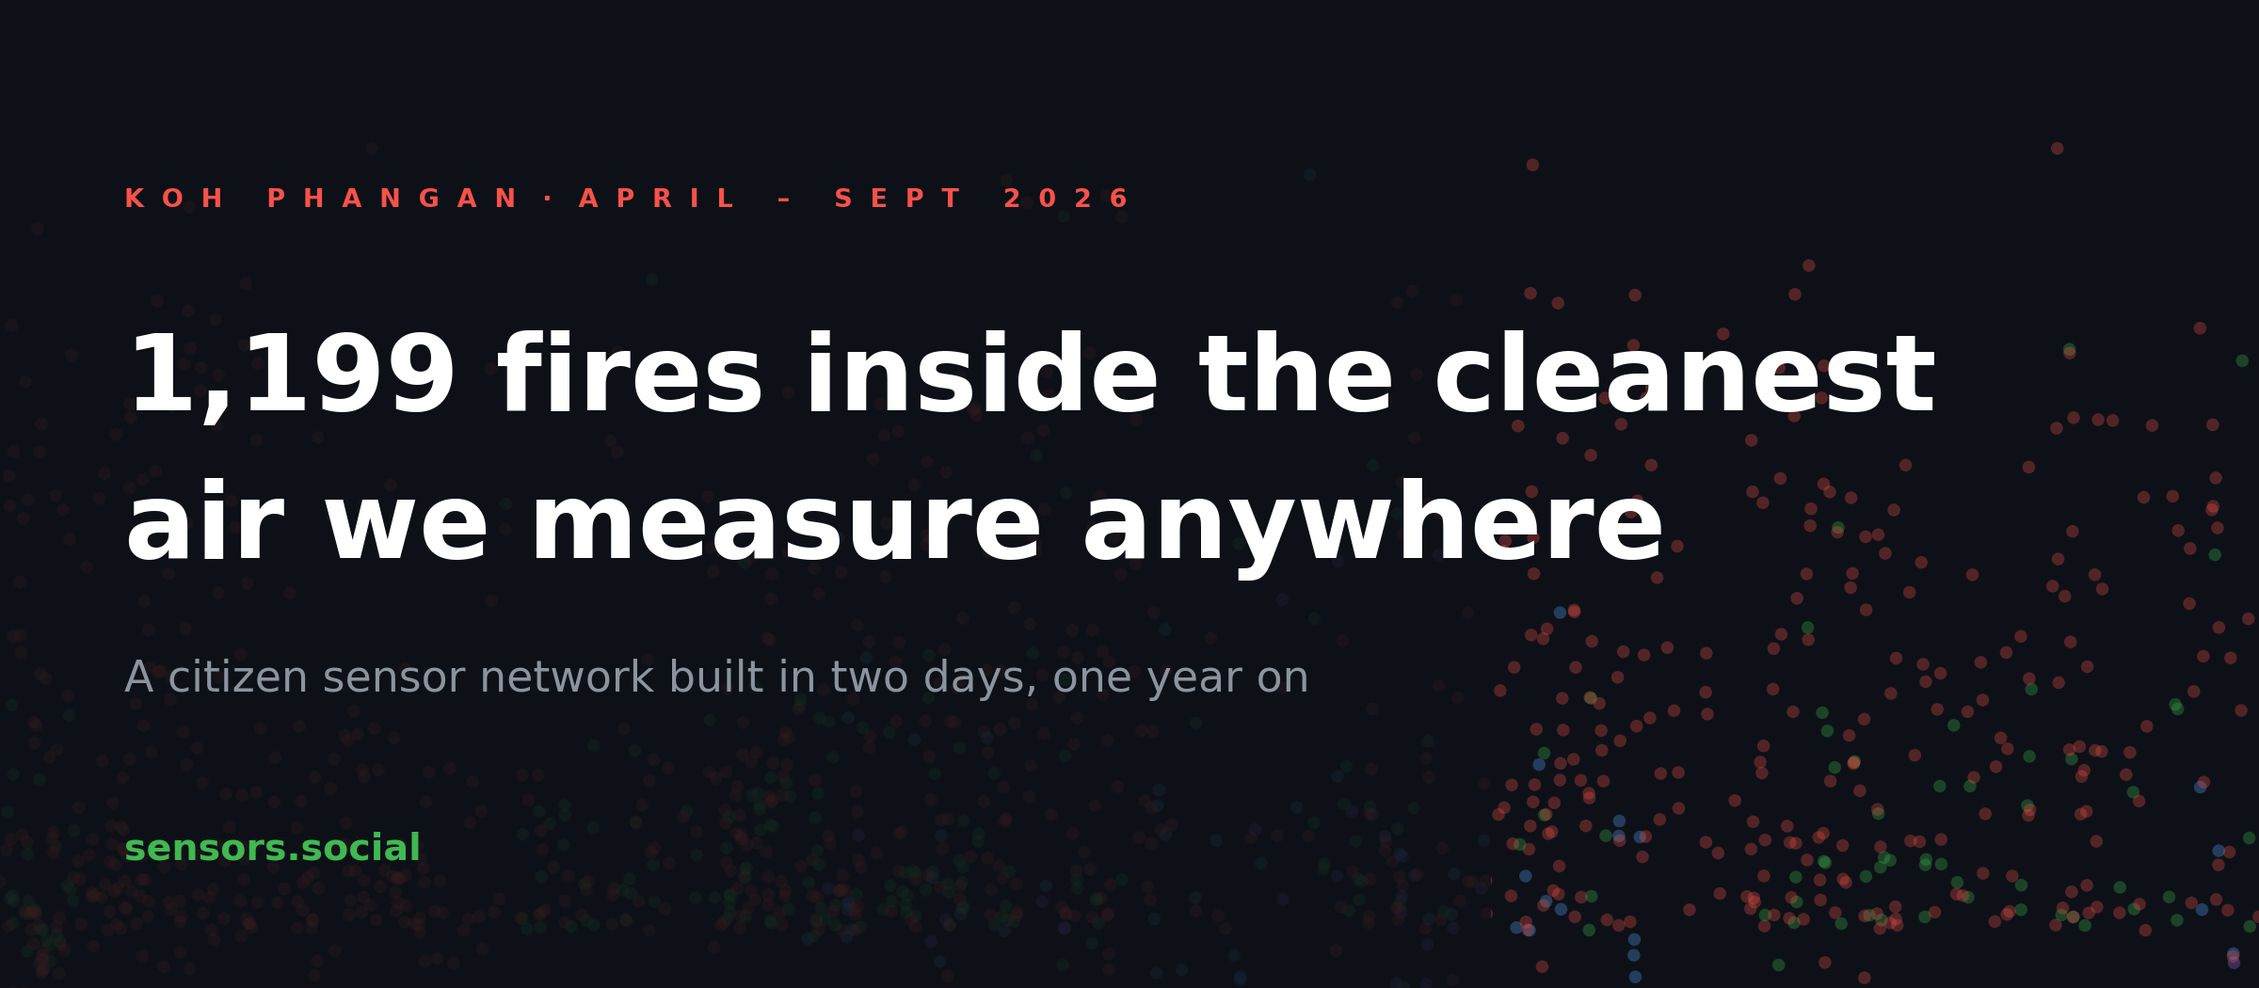
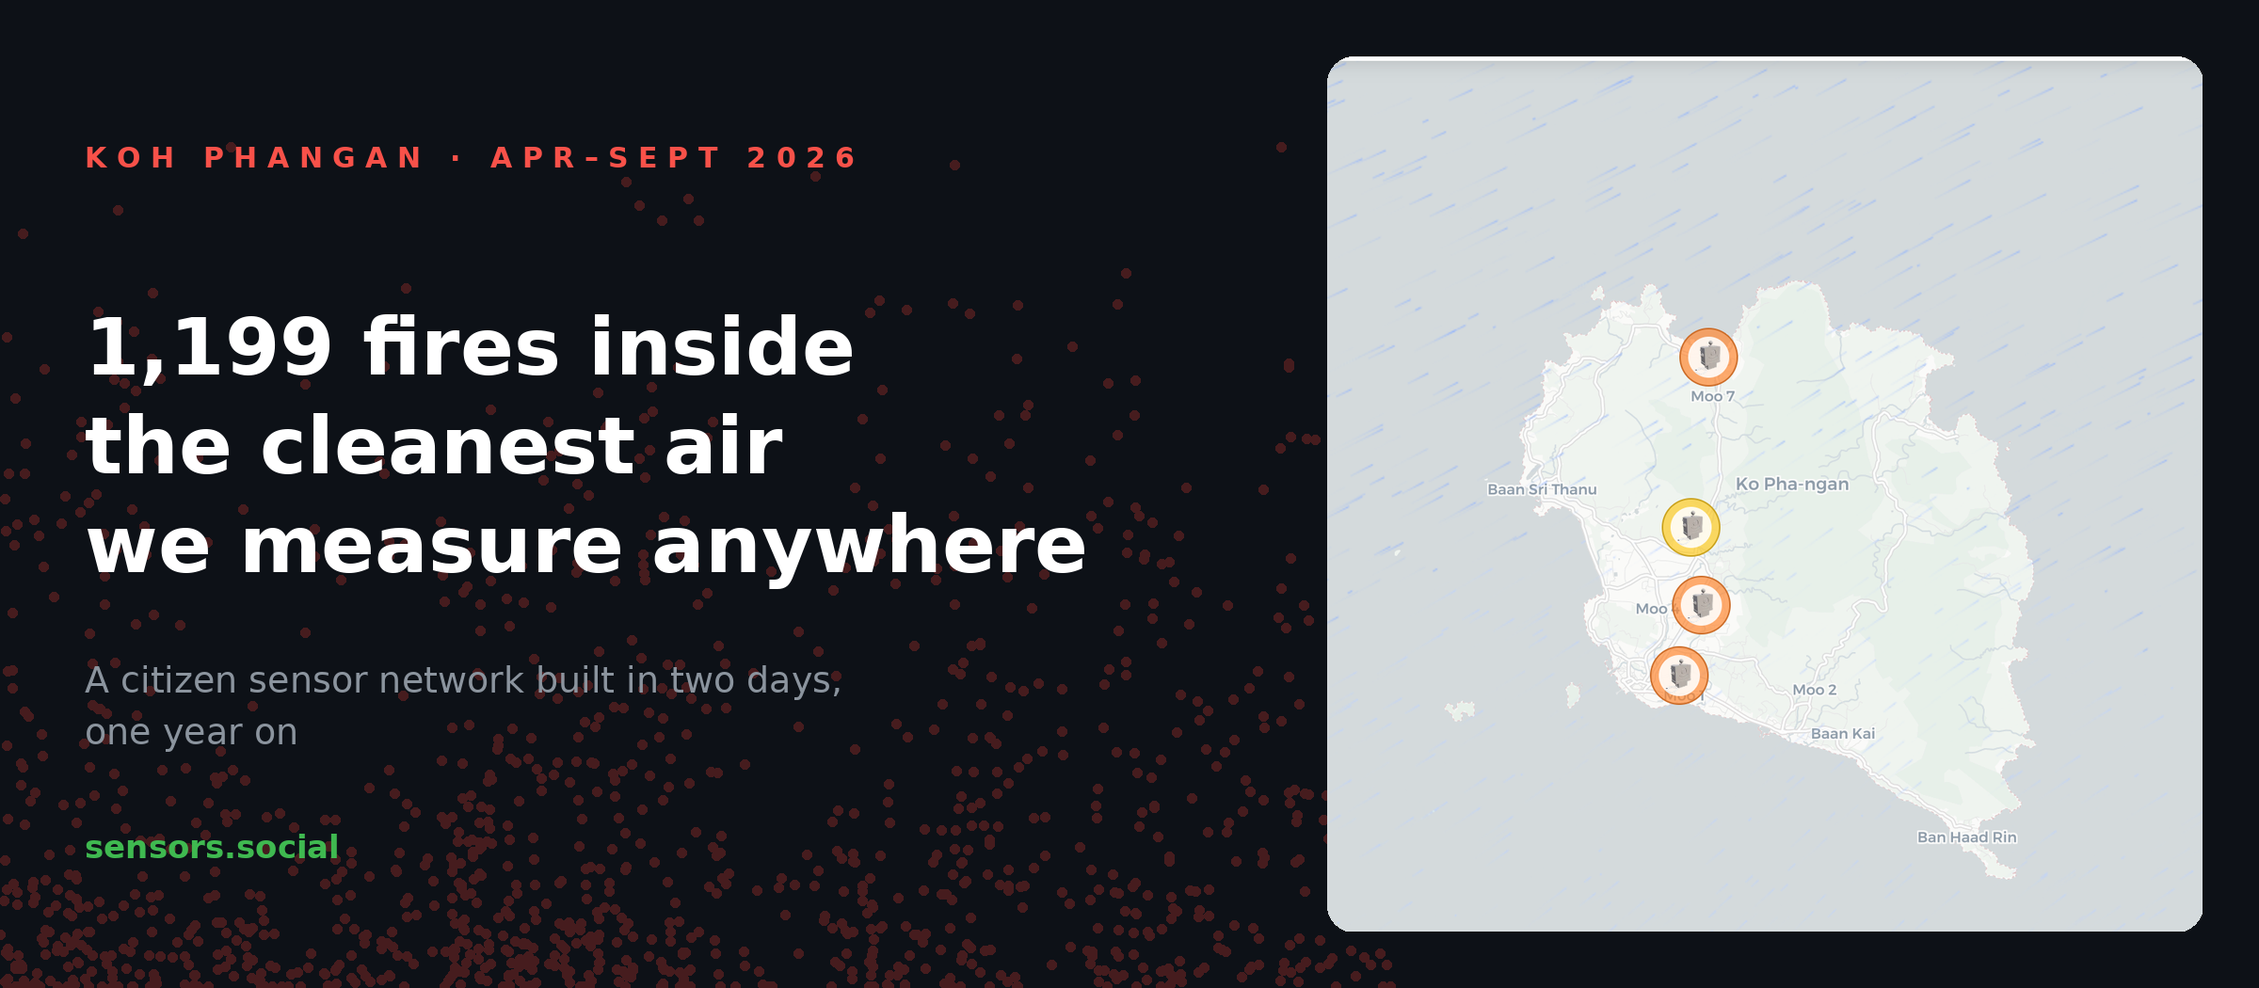
Blog: add the island map, the Robonomics post, and correct four devices to five
The map screenshot from sensors.social goes into the post and into the cover —
it shows where the four reporting devices actually stand, which the timeline
chart cannot.

The August 2025 post from @AIRA_Robonomics becomes a second quote card. It
also corrects the record: five Altruists were shipped in spring 2025 and five
were installed during the trip, not four. Four appear in the queryable archive
and the fifth does not; the post says that rather than quietly reporting four.

The prequel gains its actual origin — the islanders were met at DevCon 7, and
the August stop was the second leg of a Bangkok to Hong Kong journey.

diff --git a/src/blog/koh-phangan-one-year-later/index.ru.md b/src/blog/koh-phangan-one-year-later/index.ru.md
@@ -11,7 +11,20 @@ tags: ["case-study", "koh-phangan", "citizen-network", "air-quality"]
 
 Год назад мы поехали на далёкий остров в Сиамском заливе, чтобы выяснить: могут ли обычные люди собрать себе сеть мониторинга воздуха. Не подать заявку на неё, не дождаться её — собрать.
 
-Условия задавались нарочно скромные. Пять человек. Открытое железо меньше чем на $1000 суммарно. Расставить приборы по острову за один день, настроить, а на второй день сесть и читать данные сети, которая принадлежит сообществу и не зависит ни от одной компании.
+Началось это на DevCon 7, где мы познакомились с ребятами с Ко Пхангана. Весной 2025-го мы отправили им пять «Альтруистов». В августе приехали сами — вторым этапом маршрута Бангкок — Гонконг, и опубликовали план накануне работ:
+
+<div class="tweet-card">
+  <div class="tweet-card__head">
+    <span class="tweet-card__author">Airalab · Robonomics</span>
+    <span class="tweet-card__handle">@AIRA_Robonomics · 20 August 2025</span>
+  </div>
+  <p class="tweet-card__text">Experiment Two: The journey from Bangkok to Hong Kong via Koh Phangan.<br><br>Between the two megacities, we made a stop on #Kohphangan. Back in the spring of 2025, our team sent five Altruists here to help the local islanders (whom we met after DevCon 7) establish local air quality monitoring. However, the main purpose of our stop on Koh Phangan is to demonstrate how small communities can acquire Altruists to take part in environmental matters on their own — whether it's a cottage village, a neighborhood, or, as in today's case, an entire island!<br><br>Ahead of us is a preparation day during which we will drive around the island, install and configure five Altruist Urban devices in just one day, and then carry out the actual air quality experiment.</p>
+  <a class="tweet-card__link" href="https://x.com/AIRA_Robonomics/status/1958124636262252896" target="_blank" rel="noopener">View the post on X</a>
+</div>
+
+*Перевод: эксперимент второй — путь из Бангкока в Гонконг через Ко Пханган. Между двумя мегаполисами мы сделали остановку на острове. Весной 2025 года наша команда отправила сюда пять «Альтруистов», чтобы помочь местным жителям (с которыми мы познакомились после DevCon 7) наладить мониторинг воздуха. Но главная цель остановки — показать, что небольшие сообщества могут взяться за экологию сами: дачный посёлок, район или, как сегодня, целый остров. Впереди день подготовки: объедем остров, за сутки установим и настроим пять Altruist Urban, а затем проведём сам эксперимент.*
+
+Условия задавались нарочно скромные. Пять человек. Открытое железо меньше чем на $1000 суммарно. Объехать остров, за один день расставить и настроить приборы, а на второй сесть и читать данные сети, которая принадлежит сообществу и не зависит ни от одной компании.
 
 Получилось, и мы это сняли:
 
@@ -27,13 +40,13 @@ tags: ["case-study", "koh-phangan", "citizen-network", "air-quality"]
 
 *За два дня сеть датчиков может появиться в любой точке планеты* — второй фильм из путешествия «Альтруистов» по Азии.
 
-Полевые тесты мы [публиковали по ходу дела](https://x.com/AIRA_Robonomics/status/1958124636262252896), в августе 2025-го, пока сеть поднималась.
-
 Это приквел. А дальше — то, что было потом, потому что самое интересное в двухдневном эксперименте не второй день. Двенадцатый месяц.
 
 ## Сеть на месте — и вот где именно
 
-Она всё ещё отчитывается. Четыре датчика Altruist Urban с севера острова до юга, непрерывный поток измерений, и никто не прилетал их обслуживать.
+В августе 2025-го поднялись пять приборов. **Четыре из них есть в архиве, который мы можем запросить** — он начинается 1 апреля 2026 года; пятого в нём нет, и по этим данным нельзя сказать, когда он замолчал. Оставшиеся четыре стоят с севера острова до юга, отчитываются непрерывно, и никто не прилетал их обслуживать. Расположены они вот так:
+
+![Четыре работающих датчика на Ко Пхангане, как они выглядят на карте sensors.social](./images/map.png)
 
 Этот разбор охватывает **всё, что мы сейчас можем запросить: с 1 апреля по 3 сентября 2026 года, 156 дней, чуть больше 400 000 отдельных измерений**, оба канала пыли в каждом. Те же данные можно открыть на [карте](https://sensors.social/?type=pm10&date=2026-09-03&provider=remote&lat=9.75&lng=100.02&zoom=10) и пройти по ним самому.
 
@@ -118,7 +131,7 @@ tags: ["case-study", "koh-phangan", "citizen-network", "air-quality"]
 <div class="tweet-card">
   <div class="tweet-card__head">
     <span class="tweet-card__author">Local activists on Koh Phangan</span>
-    <span class="tweet-card__handle">on X</span>
+    <span class="tweet-card__handle">on X · 21 июля 2026</span>
   </div>
   <p class="tweet-card__text">We are helping the local Ko Pha Ngan 🇹🇭🏝 community collect evidence of pollution on a public blockchain, directly from air quality sensors. This is the hardest and longest step in fixing the biggest issue in this hippie paradise — trash burning every day, and even more after the legendary parties 😶🌫</p>
   <a class="tweet-card__link" href="https://x.com/EnsRationis/status/2079631800331096501" target="_blank" rel="noopener">View the post on X</a>
@@ -140,7 +153,7 @@ tags: ["case-study", "koh-phangan", "citizen-network", "air-quality"]
 
 **Мы не можем доказать горение по одному размеру частиц.** Учебниковый способ — соотношение крупной и мелкой фракции, у нас его медиана 1,85, то есть «смешанный», а не отчётливо мелкодисперсный. Известно, что номинально «крупный» канал этого сенсора откликается в основном на частицы заметно меньше 2,5 мкм ([Kuula et al., 2020](https://doi.org/10.5194/amt-13-2413-2020)), поэтому на таком железе соотношение — слабый различитель, и мы на него не опираемся. Аргумент несёт абсолютная нагрузка мелкой фракции: поднятая ветром почва не даёт 1000 мкг/м³ мелких частиц.
 
-**Покрытие неровное, поэтому любое число — нижняя граница.** Один датчик пропустил 34 дня подряд, другой 45, а у одного из четырёх датчик влажности застыл на 100%, из-за чего большая часть его показаний непригодна для скорректированного фона. Реальное число эпизодов на острове больше 1199 — мы просто не везде слушали одновременно.
+**Покрытие неровное, поэтому любое число — нижняя граница.** Одного прибора из пяти в архиве нет вовсе. Из оставшихся четырёх один пропустил 34 дня подряд, другой 45, а у одного датчик влажности застыл на 100%, из-за чего большая часть его показаний непригодна для скорректированного фона. Реальное число эпизодов на острове больше 1199 — мы просто не везде слушали одновременно.
 
 ## Так эксперимент удался?
 

diff --git a/src/blog/koh-phangan-one-year-later/index.md b/src/blog/koh-phangan-one-year-later/index.md
@@ -11,7 +11,18 @@ tags: ["case-study", "koh-phangan", "citizen-network", "air-quality"]
 
 A year ago we went to a remote island in the Gulf of Thailand to find out whether a group of ordinary people could build their own air quality network — not apply for one, not wait for one, build one.
 
-The premise was deliberately modest. Five people. Open hardware for under $1,000 in total. Install the devices around the island in a single day, configure them, and by the second day sit down and read data from a sensor network that belongs to the community running it and depends on no company to stay alive.
+It began at DevCon 7, where we met a group of islanders from Koh Phangan. In the spring of 2025 we shipped five Altruists out to them. That August we came ourselves, as the second leg of a journey from Bangkok to Hong Kong, and posted the plan the day before the work started:
+
+<div class="tweet-card">
+  <div class="tweet-card__head">
+    <span class="tweet-card__author">Airalab · Robonomics</span>
+    <span class="tweet-card__handle">@AIRA_Robonomics · 20 August 2025</span>
+  </div>
+  <p class="tweet-card__text">Experiment Two: The journey from Bangkok to Hong Kong via Koh Phangan.<br><br>Between the two megacities, we made a stop on #Kohphangan. Back in the spring of 2025, our team sent five Altruists here to help the local islanders (whom we met after DevCon 7) establish local air quality monitoring. However, the main purpose of our stop on Koh Phangan is to demonstrate how small communities can acquire Altruists to take part in environmental matters on their own — whether it's a cottage village, a neighborhood, or, as in today's case, an entire island!<br><br>Ahead of us is a preparation day during which we will drive around the island, install and configure five Altruist Urban devices in just one day, and then carry out the actual air quality experiment.</p>
+  <a class="tweet-card__link" href="https://x.com/AIRA_Robonomics/status/1958124636262252896" target="_blank" rel="noopener">View the post on X</a>
+</div>
+
+The premise was deliberately modest. Five people. Open hardware for under $1,000 in total. Drive around the island, install and configure the devices in a single day, and by the second day sit down and read data from a sensor network that belongs to the community running it and depends on no company to stay alive.
 
 It worked, and we filmed it:
 
@@ -27,13 +38,13 @@ It worked, and we filmed it:
 
 *In just 2 days, a sensor network can emerge anywhere on the planet* — the second film from the Altruists' journey across Asia.
 
-We also [posted the field tests as they happened](https://x.com/AIRA_Robonomics/status/1958124636262252896), in August 2025, while the network was going up.
-
 That is the prequel. This post is what happened next, because the interesting part of a two-day experiment is not day two. It is month twelve.
 
 ## The network is still there — and here is exactly where
 
-It is still reporting. Four Altruist Urban sensors spread from the north of the island to the south, sending measurements continuously, with no one flying in to maintain them.
+Five devices went up in August 2025. **Four of them appear in the archive we can query**, which begins on 1 April 2026 — the fifth does not, and this data cannot tell us when it went quiet. The four that remain run from the north of the island to the south, reporting continuously, with no one flying in to maintain them. They sit exactly here:
+
+![The four reporting sensors on Koh Phangan, as they appear on the sensors.social map](./images/map.png)
 
 This post covers **everything we can currently query: 1 April to 3 September 2026, 156 days, just over 400,000 individual measurements**, both particulate channels on every reading. You can open the same data on the [map](https://sensors.social/?type=pm10&date=2026-09-03&provider=remote&lat=9.75&lng=100.02&zoom=10) and go through it yourself.
 
@@ -118,7 +129,7 @@ We did not discover this problem. The people who live on the island did, and the
 <div class="tweet-card">
   <div class="tweet-card__head">
     <span class="tweet-card__author">Local activists on Koh Phangan</span>
-    <span class="tweet-card__handle">on X</span>
+    <span class="tweet-card__handle">on X · 21 July 2026</span>
   </div>
   <p class="tweet-card__text">We are helping the local Ko Pha Ngan 🇹🇭🏝 community collect evidence of pollution on a public blockchain, directly from air quality sensors. This is the hardest and longest step in fixing the biggest issue in this hippie paradise — trash burning every day, and even more after the legendary parties 😶🌫</p>
   <a class="tweet-card__link" href="https://x.com/EnsRationis/status/2079631800331096501" target="_blank" rel="noopener">View the post on X</a>
@@ -139,7 +150,7 @@ Four things, stated plainly, because a citizen network earns its credibility by 
 
 **We cannot prove combustion from particle size alone.** The textbook method is the coarse-to-fine ratio, and ours sits at a median of 1.85 — mixed, rather than clearly fine-dominated. The sensor's nominal coarse channel is known to respond mostly to particles well under 2.5 µm ([Kuula et al., 2020](https://doi.org/10.5194/amt-13-2413-2020)), so on this hardware the ratio is a weak discriminator and we do not lean on it. What carries the argument is the absolute fine-dust load: soil lifted by wind does not produce 1000 µg/m³ of fine particles.
 
-**Coverage is uneven, so every count is a floor.** One sensor missed 34 days in a row, another 45, and one of the four has a humidity probe stuck at 100% that makes most of its readings unusable for the corrected background. The island's real episode count is higher than 1,199 — we simply were not listening everywhere at once.
+**Coverage is uneven, so every count is a floor.** One of the five devices is missing from the archive altogether. Of the four that remain, one missed 34 days in a row, another 45, and one has a humidity probe stuck at 100% that makes most of its readings unusable for the corrected background. The island's real episode count is higher than 1,199 — we simply were not listening everywhere at once.
 
 ## So, did the experiment work?
 
